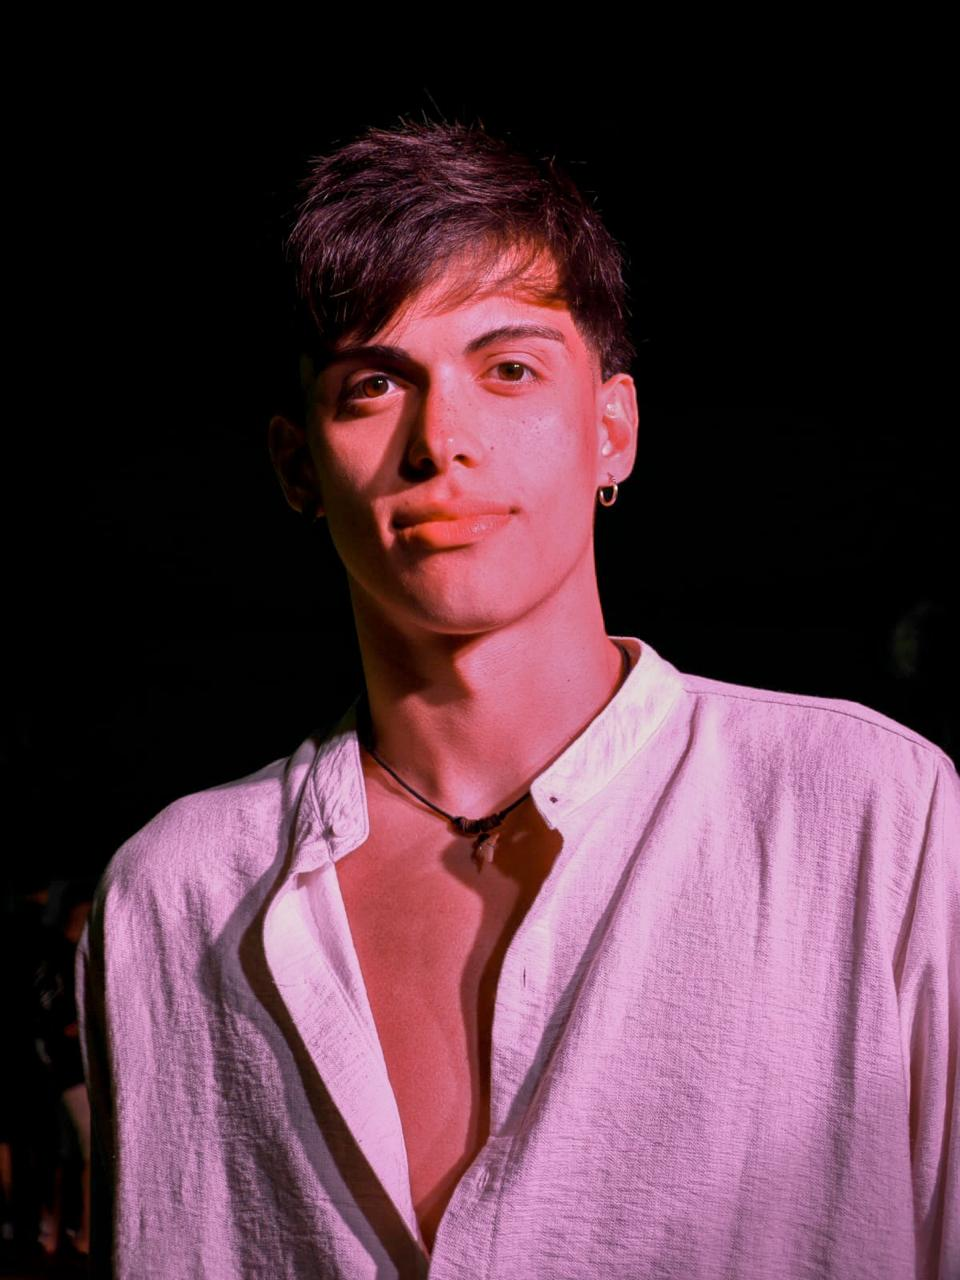
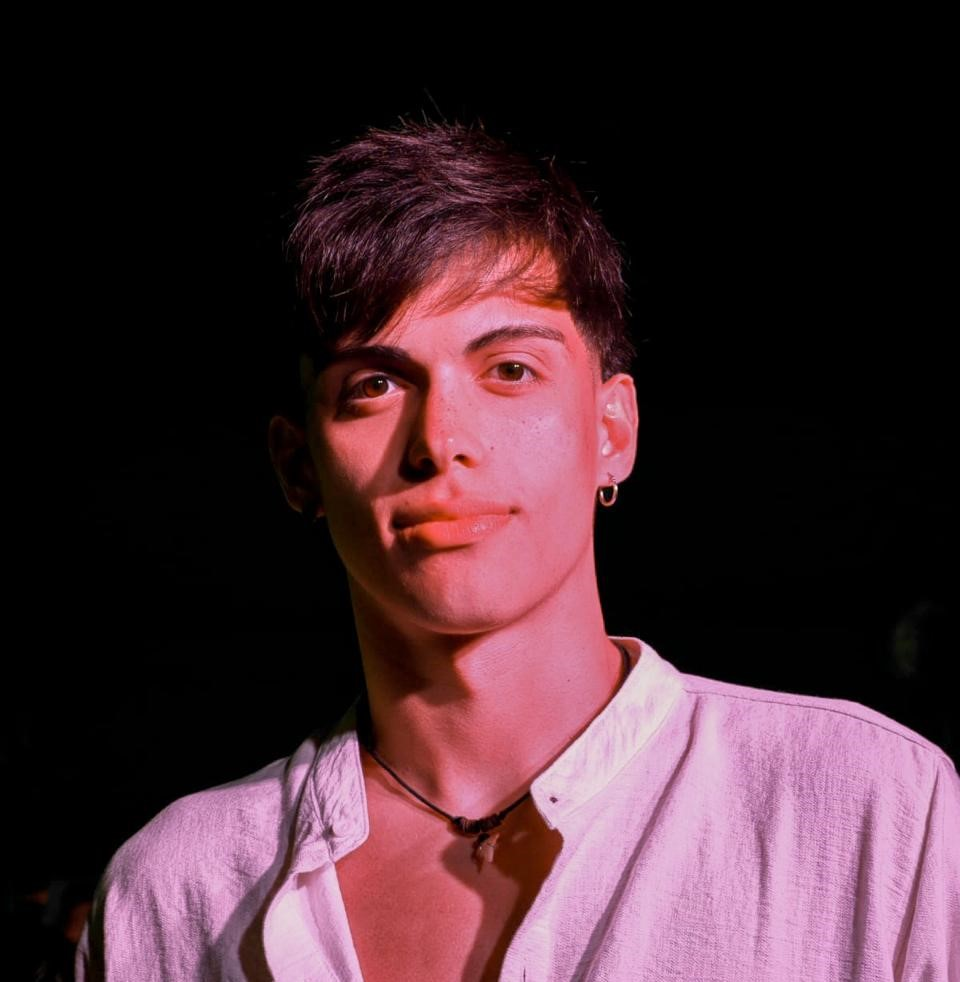
alineación

diff --git a/src/App.jsx b/src/App.jsx
@@ -7,22 +7,29 @@ import { Link } from "react-router-dom";
 
 const PROFILE = {
   name: "Jeremías Regalzi",
-  role: "Frontend & Full‑Stack Developer",
+  role: "Frontend & Full-Stack Developer",
   location: "CABA, AR",
   summary:
-    "Diseño interfaces frontend rápidas, claras y escalables con React + Tailwind. Egresado de Escuela Da Vinci. Actualmente cursando Análisis de Sistemas.",
+    "Soy desarrollador Frontend & Full-Stack con foco en la creación de interfaces claras, rápidas y funcionales utilizando React, Tailwind y Node.js. Egresado de Escuela Da Vinci en Diseño y Programación Web, actualmente curso Análisis de Sistemas para ampliar mi visión técnica y arquitectónica. Me motiva construir experiencias digitales que combinen buen diseño, rendimiento y escalabilidad.",
   links: {
     github: "https://github.com/jereregalzi7",
     linkedin: "https://www.linkedin.com/in/jeremias-regalzi-253417248/",
     email: "mailto:jereregalzi93@gmail.com",
     cv: "/cv-jeremias-regalzi.pdf"
   },
+  // badges de valores/forma de trabajo (3)
+  badges: [
+    { label: "UI limpia", emoji: "🎨" },
+    { label: "Código escalable", emoji: "🧩" },
+    { label: "Enfoque UX", emoji: "👀" },
+  ],
   skills: [
     "React","Vite","TailwindCSS","JavaScript","TypeScript",
     "Node.js","Express","Laravel","PHP","Firebase",
     "PostgreSQL","MySQL","MongoDB","Vue.js","Figma"
   ],
 };
+
 
 const PROJECTS = [
   {
@@ -141,16 +148,31 @@ function Navbar() {
 
 function Hero() {
   return (
-    <header className="mx-auto max-w-6xl px-4 pt-10 pb-12">
+    <header className="mx-auto max-w-6xl px-4 pt-4 md:pt-8 pb-10">
       <motion.div initial={{ opacity: 0, y: 12 }} animate={{ opacity: 1, y: 0 }} transition={{ duration: 0.4 }}>
-        <div className="flex flex-col md:flex-row md:items-center md:justify-between gap-6">
+        <div className="flex flex-col md:flex-row md:items-start md:justify-between gap-6">
           <div>
             <h1 className="text-3xl md:text-5xl font-bold tracking-tight">
               {PROFILE.role} <span className="text-blue-700">/ Portfolio</span>
             </h1>
-            <p className="mt-4 max-w-2xl text-zinc-700 dark:text-zinc-200">
-              {PROFILE.summary}
-            </p>
+             {/* Sobre mí (texto mejorado) + badges de valores */}
+            <div className="mt-4 space-y-3">
+              <p className="max-w-2xl text-zinc-700 dark:text-zinc-200">
+                {PROFILE.summary}
+              </p>
+
+              <ul className="flex flex-wrap gap-2 text-sm">
+                {PROFILE.badges.map((b) => (
+                  <li
+                    key={b.label}
+                    className="inline-flex items-center gap-2 rounded-full border border-blue-200/60 bg-blue-50 px-3 py-1 text-blue-800
+                              dark:bg-blue-900/30 dark:text-blue-200">
+                    <span>{b.emoji}</span>
+                    <span>{b.label}</span>
+                  </li>
+                ))}
+              </ul>
+            </div>
             <div className="mt-6 flex flex-wrap gap-2">
               {PROFILE.skills.map((s) => (<Tag key={s}>{s}</Tag>))}
             </div>
@@ -165,7 +187,7 @@ function Hero() {
             <div className="aspect-[3/4] w-full overflow-hidden rounded-xl">
               <img className="h-full w-full object-cover" src="/assets/hero-jere.jpg" alt="Jeremías Regalzi" />
             </div>
-            <p className="mt-3 text-sm text-zinc-700 dark:text-zinc-200">Foto de perfil.</p>
+            <p className="mt-3 text-sm text-zinc-700 dark:text-zinc-200">Jeremías Regalzi</p>
           </Card>
         </div>
       </motion.div>
